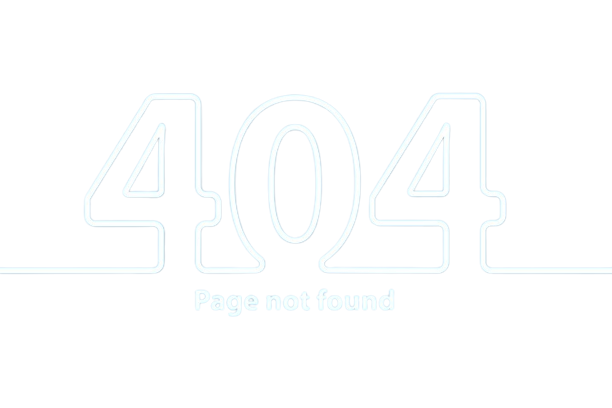
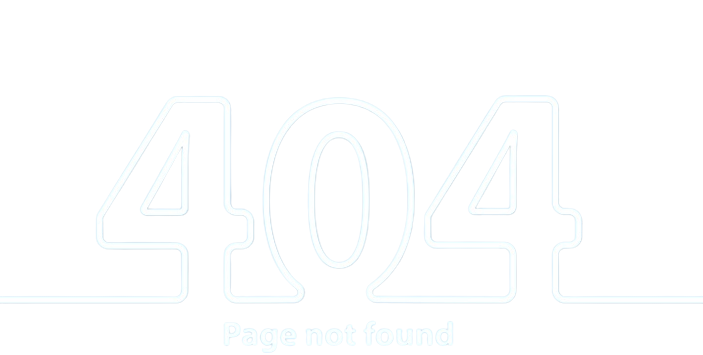
CardsContainer

diff --git a/client/src/redux/actionsRecipes.js b/client/src/redux/actionsRecipes.js
@@ -40,7 +40,9 @@ export const recipeStore = createSlice({
 			state.page = 1;
 		},
 		setSelected: (state, { payload }) => {
-			state = { ...state, ...payload };
+			state.selected = { ...state.selected, ...payload.selected };
+			state.recipesShown = payload.recipesShown;
+			state.page = payload.page;
 		},
 		setPage: (state, { payload }) => {
 			state.dietsAll = payload;
@@ -80,7 +82,7 @@ export const getAllRecipes = () => {
 	return async (dispatch, getState) => {
 		const { recipesAll } = getState().recipeStore;
 
-		if (recipesAll.length > 0) return dispatch(setDiets(recipesAll));
+		if (recipesAll.length > 0) return dispatch(setRecipesAll(recipesAll));
 
 		try {
 			const response = await axios.get("/recipes");
@@ -96,7 +98,7 @@ export const getAllRecipes = () => {
 export const getRecipeByName = (name) => {
 	return async (dispatch) => {
 		try {
-			const response = await axios.get(`/recipes?name=${name}`);
+			//const response = await axios.get(`/recipes?name=${name}`);
 			const recipesByName = response.data;
 			return dispatch(setRecipesByName(recipesByName));
 		} catch (error) {
@@ -110,35 +112,35 @@ export const updateSelected = (option) => {
 	return (dispatch, getState) => {
 		const { recipesByName, recipesAll, selected } = getState().recipeStore;
 
-		let selectedRecipes = recipesByName ? recipesByName : recipesAll;
-		selected = { ...selected, ...option };
+		let selectedRecipes = recipesByName.length ? [...recipesByName] : [...recipesAll];
+		let select = { ...selected, ...option };
 
 		// Por tipo de dieta
-		if (selected.byDiet.length)
+		if (select.byDiet.length)
 			selectedRecipes = selectedRecipes.filter((recipe) =>
-				recipe.diets.includes(selected.byDiet)
+				recipe.diets.includes(select.byDiet)
 			);
 
 		// Por creación
-		if (selected.byCreated.length)
+		if (select.byCreated.length)
 			selectedRecipes = selectedRecipes.filter((recipe) =>
-				selected.byCreated === "DB" ? isNaN(recipe.id) : !isNaN(recipe.id)
+				select.byCreated === "DB" ? isNaN(recipe.id) : !isNaN(recipe.id)
 			);
 
 		// Health Score
-		if (selected.byOrder === "MinToMax")
+		if (select.byOrder === "MinToMax")
 			selectedRecipes.sort((a, b) => a.healthScore - b.healthScore);
-		if (selected.byOrder === "MaxToMin")
+		if (select.byOrder === "MaxToMin")
 			selectedRecipes.sort((a, b) => b.healthScore - a.healthScore);
 
 		//Alfabéticamente
-		if (selected.byOrder === "Ascending")
+		if (select.byOrder === "Ascending")
 			selectedRecipes.sort((a, b) => a.title.localeCompare(b.title));
-		if (selected.byOrder === "Descending")
+		if (select.byOrder === "Descending")
 			selectedRecipes.sort((a, b) => b.title.localeCompare(a.title));
 
 		dispatch(
-			setSelected({ selected: selected, recipesShown: selectedRecipes, page: 1 })
+			setSelected({ selected: select, recipesShown: selectedRecipes, page: 1 })
 		);
 	};
 };

diff --git a/client/src/components/home/helpers/searchBar/SearchBar.jsx b/client/src/components/home/helpers/searchBar/SearchBar.jsx
@@ -1,0 +1,74 @@
+import React, { useState } from "react";
+import { useDispatch, useSelector } from "react-redux";
+import {
+	getAllRecipes,
+	getRecipeByName,
+	updateSelected,
+} from "../../../../redux/actionsRecipes";
+import style from "./SearchBar.module.css";
+import SearchIcon from "./SearchIcon";
+
+const SearchBar = () => {
+	const dispatch = useDispatch();
+	const diets = useSelector((state) => state.recipeStore.dietsAll);
+	const selected = useSelector((state) => state.recipeStore.selected);
+
+	const handleChange = (event) => {
+		const { name, value } = event.target;
+		dispatch(updateSelected({ [name]: value }));
+	};
+
+	// Buscar por nombre
+	const [name, setName] = useState("");
+
+	const onSearch = () => {
+		try {
+			dispatch(getRecipeByName(name));
+			setName("");
+		} catch (err) {
+			window.alert("There are no recipes with that name");
+		}
+	};
+
+	return (
+		<div className={style.searchBarContainer}>
+			<button onClick={() => dispatch(getAllRecipes())}>All Recipes</button>
+
+			<span>
+				<input
+					type="search"
+					value={name}
+					onChange={(event) => setName(event.target.value)}
+				/>
+				<button className={style.searchButton} onClick={onSearch}>
+					<SearchIcon/>
+				</button>
+			</span>
+
+			<select value={selected.byDiet} name="byDiet" onChange={handleChange}>
+				<option value="">Filter by diet</option>
+				{diets?.map((diet) => (
+					<option value={diet.name} key={diet.id}>
+						{diet.name}
+					</option>
+				))}
+			</select>
+
+			<select value={selected.byCreated} name="byCreated" onChange={handleChange}>
+				<option value="">Filter by created</option>
+				<option value="DB">Created by User</option>
+				<option value="API">Created by App</option>
+			</select>
+
+			<select value={selected.byOrder} name="byOrder" onChange={handleChange}>
+				<option value="">Order by..</option>
+				<option value="MinToMax">HealthScore largest</option>
+				<option value="MaxToMin">HealthScore smallest</option>
+				<option value="Ascending">Title ascending</option>
+				<option value="Descending">Title descending</option>
+			</select>
+		</div>
+	);
+};
+
+export default SearchBar;

diff --git a/client/src/components/home/Home.jsx b/client/src/components/home/Home.jsx
@@ -1,14 +1,14 @@
 import { useEffect } from "react";
 import { useDispatch, useSelector } from "react-redux";
 import { getAllRecipes, getAllDiets } from "../../redux/actionsRecipes";
-import { CardsContainer } from "./helpers";
+import { SearchBar, CardsContainer } from "./helpers";
 import style from "./Home.module.css";
 
 const Home = () => {
 	const dispatch = useDispatch();
 	const recipesShown = useSelector((state) => state.recipeStore.recipesShown);
 	const diets = useSelector((state) => state.recipeStore.dietsAll);
-  
+
 	// Paginado!
 	const page = useSelector((state) => state.recipeStore.page);
 	const perPage = 9;
@@ -16,21 +16,22 @@ const Home = () => {
 	const endIndex = startIndex + perPage;
 	const max = Math.ceil(recipesShown?.length / perPage);
 	const recipes = recipesShown?.slice(startIndex, endIndex);
-  
-    useEffect(() => {
-      if (!diets.length) {
-        dispatch(getAllRecipes());
-        dispatch(getAllDiets());
-      }
-    }, []);
+
+	useEffect(() => {
+		if (!diets.length) {
+			dispatch(getAllRecipes());
+			dispatch(getAllDiets());
+		}
+	}, []);
 
 	return (
 		<div className={style.homeContainer}>
-			{/* <SearchBar /> */}
-			<br />
-			<h1>RECIPES FINDER</h1>
-			<CardsContainer recipes={recipes} />
-			<footer>{/* <Paginado page={page} max={max} /> */}</footer>
+			<SearchBar />
+			<div className={style.homeContent}>
+				<h1>RECIPES FINDER</h1>
+				<CardsContainer recipes={recipes} />
+				<footer>{/* <Paginado page={page} max={max} /> */}</footer>
+			</div>
 		</div>
 	);
 };

diff --git a/client/src/App.module.css b/client/src/App.module.css
@@ -68,8 +68,8 @@ button {
 	background-color: var(--color3);
 	color: var(--color);
 	border: none;
-	border-radius: 4px;
-	font-size: 20px;
+	border-radius: 0.3rem;
+	font-size: 1.3rem;
 	cursor: pointer;
 	transition: box-shadow 0.3s ease;
 }
@@ -78,4 +78,26 @@ button:hover {
 }
 button:active {
 	box-shadow: none;
+}
+
+input {
+	border-radius: 0.3rem;
+	border: 1px solid var(--color);
+	background-color: var(--color1);
+	color: var(--color5);
+	font-size: 1.3rem;
+	font-family: monospace;
+	box-shadow: 5px 5px 5px rgba(0, 0, 0, 0.34);
+}
+
+select {
+	border-radius: 0.3rem;
+	border: 1px solid var(--color5);
+	background-color: var(--color3);
+	color: var(--color);
+	font-size: 1.3rem;
+	text-align: center;
+	height: 26px;
+	cursor: pointer;
+	box-shadow: 5px 5px 5px rgba(0, 0, 0, 0.34);
 }

diff --git a/client/src/components/home/Home.module.css b/client/src/components/home/Home.module.css
@@ -1,4 +1,6 @@
 .homeContainer {
+	display: flex;
+	flex-direction: row;
 	background-attachment: fixed;
 	background-repeat: no-repeat;
 	background-size: cover;
@@ -7,17 +9,25 @@
 	background-color: var(--color1);
 }
 
+.homeContainer .homeContent {
+	width: 100%;
+	margin-left: 13rem;
+}
+
 .homeContainer h1 {
 	position: relative;
 	justify-content: center;
 	flex-direction: row;
 	display: flex;
-	margin: 0;
+	margin-top: 0.5rem;
+	margin-bottom: 0.2rem;
+	margin-right: 0.5rem;
 	padding: 0;
 	font-size: 70px;
 	font-family: monospace;
+	border-radius: 0.4rem;
 	background-color: var(--color3);
-	color: var(--color5);
+	color: var(--color);
 	text-shadow: 3px 2px 2px rgba(0, 0, 0, 0.764);
 	opacity: 0.75;
 }

diff --git a/client/src/components/home/helpers/card/Card.module.css b/client/src/components/home/helpers/card/Card.module.css
@@ -2,10 +2,10 @@
   text-align: center;
   border: 2px solid var(--color3);
   border-radius: 1rem;
-  margin: 1rem;
+  margin: 0.4rem;
   padding: 0.1rem;
-  height: 400px;
-  width: 320px;
+  height: 23rem;
+  width: 20rem;
   background-color: var(--color3);
   box-shadow: 5px 5px 5px rgba(0, 0, 0, 0.499);
 }
@@ -21,6 +21,7 @@
   display: flex;
   justify-content: center;
   align-items: center;
+  margin: 0;
   color: var(--color5);
   text-shadow: 1px 1px 1px #00000075;
 }
@@ -29,6 +30,8 @@
   flex-wrap: wrap;
   align-items: center;
   font-size: 17px;
+  margin: 0;
+  margin-top: 0.5rem;
   color: var(--color);
   margin-left: 10px;
   text-align: center;

diff --git a/client/src/components/home/helpers/searchBar/SearchIcon.jsx b/client/src/components/home/helpers/searchBar/SearchIcon.jsx
@@ -1,0 +1,23 @@
+const SearchIcon = ({ size = 19, color = "#ffffff" }) => (
+	<svg
+		aria-hidden="true"
+		role="img"
+		id="SearchIcon"
+		data-name="SearchIcon"
+		preserveAspectRatio="xMidYMid meet"
+		xmlns="http://www.w3.org/2000/svg"
+		width={size}
+		height={size}
+		viewBox="0 0 20 20"
+		fill="none"
+	>
+		<path
+			stroke="currentColor"
+			stroke-linecap="round"
+			stroke-linejoin="round"
+			stroke-width="2"
+			d="m19 19-4-4m0-7A7 7 0 1 1 1 8a7 7 0 0 1 14 0Z"
+		/>
+	</svg>
+);
+export default SearchIcon;

diff --git a/client/src/components/home/helpers/searchBar/SearchBar.module.css b/client/src/components/home/helpers/searchBar/SearchBar.module.css
@@ -1,0 +1,33 @@
+.searchBarContainer {
+	position: fixed;
+	display: flex;
+	flex-direction: column;
+	align-items: flex-start;
+	padding: 0.5rem;
+	min-height: max-content;
+  width: 12rem;
+	gap: 0.3em;
+}
+
+.searchBarContainer button {
+	width: 100%;
+}
+
+.searchBarContainer span {
+	width: 100%;
+}
+
+.searchBarContainer input {
+	width: 85%;
+}
+
+.searchBarContainer .searchButton {
+	width: 14%;
+  margin-left: 2%;
+	padding: 0px;
+	padding-top: 4px;
+}
+
+.searchBarContainer select {
+	width: 100%;
+}

diff --git a/client/src/components/home/helpers/index.js b/client/src/components/home/helpers/index.js
@@ -1,9 +1,10 @@
 import Card from "./card/Card";
-import CardsContainer from "./CardsContainer/CardsContainer";
+import CardsContainer from "./cardsContainer/CardsContainer";
 // import Paginado from "./paginado/Paginado";
-// import SearchBar from "./searchBar/SearchBar";
+import SearchBar from "./searchBar/SearchBar";
 
 export {
   Card,
   CardsContainer,
+  SearchBar,
 };

diff --git a/client/src/components/notFound/NotFound.module.css b/client/src/components/notFound/NotFound.module.css
@@ -5,8 +5,9 @@
 	overflow: hidden;
 	background-attachment: fixed;
 	position: absolute;
+	padding-top: 15rem;
 	height: 80%;
-	width: 100%;
+	width: 100vw;
 	margin: 0;
 	padding: 0;
 }

diff --git a/client/src/components/home/helpers/CardsContainer/CardsContainer.module.css b/client/src/components/home/helpers/CardsContainer/CardsContainer.module.css
@@ -2,6 +2,6 @@
 	display: flex;
 	flex-wrap: wrap;
 	justify-content: space-around;
-	gap: 1em;
 	height: fit-content;
+	padding-right: 0.5rem;
 }
